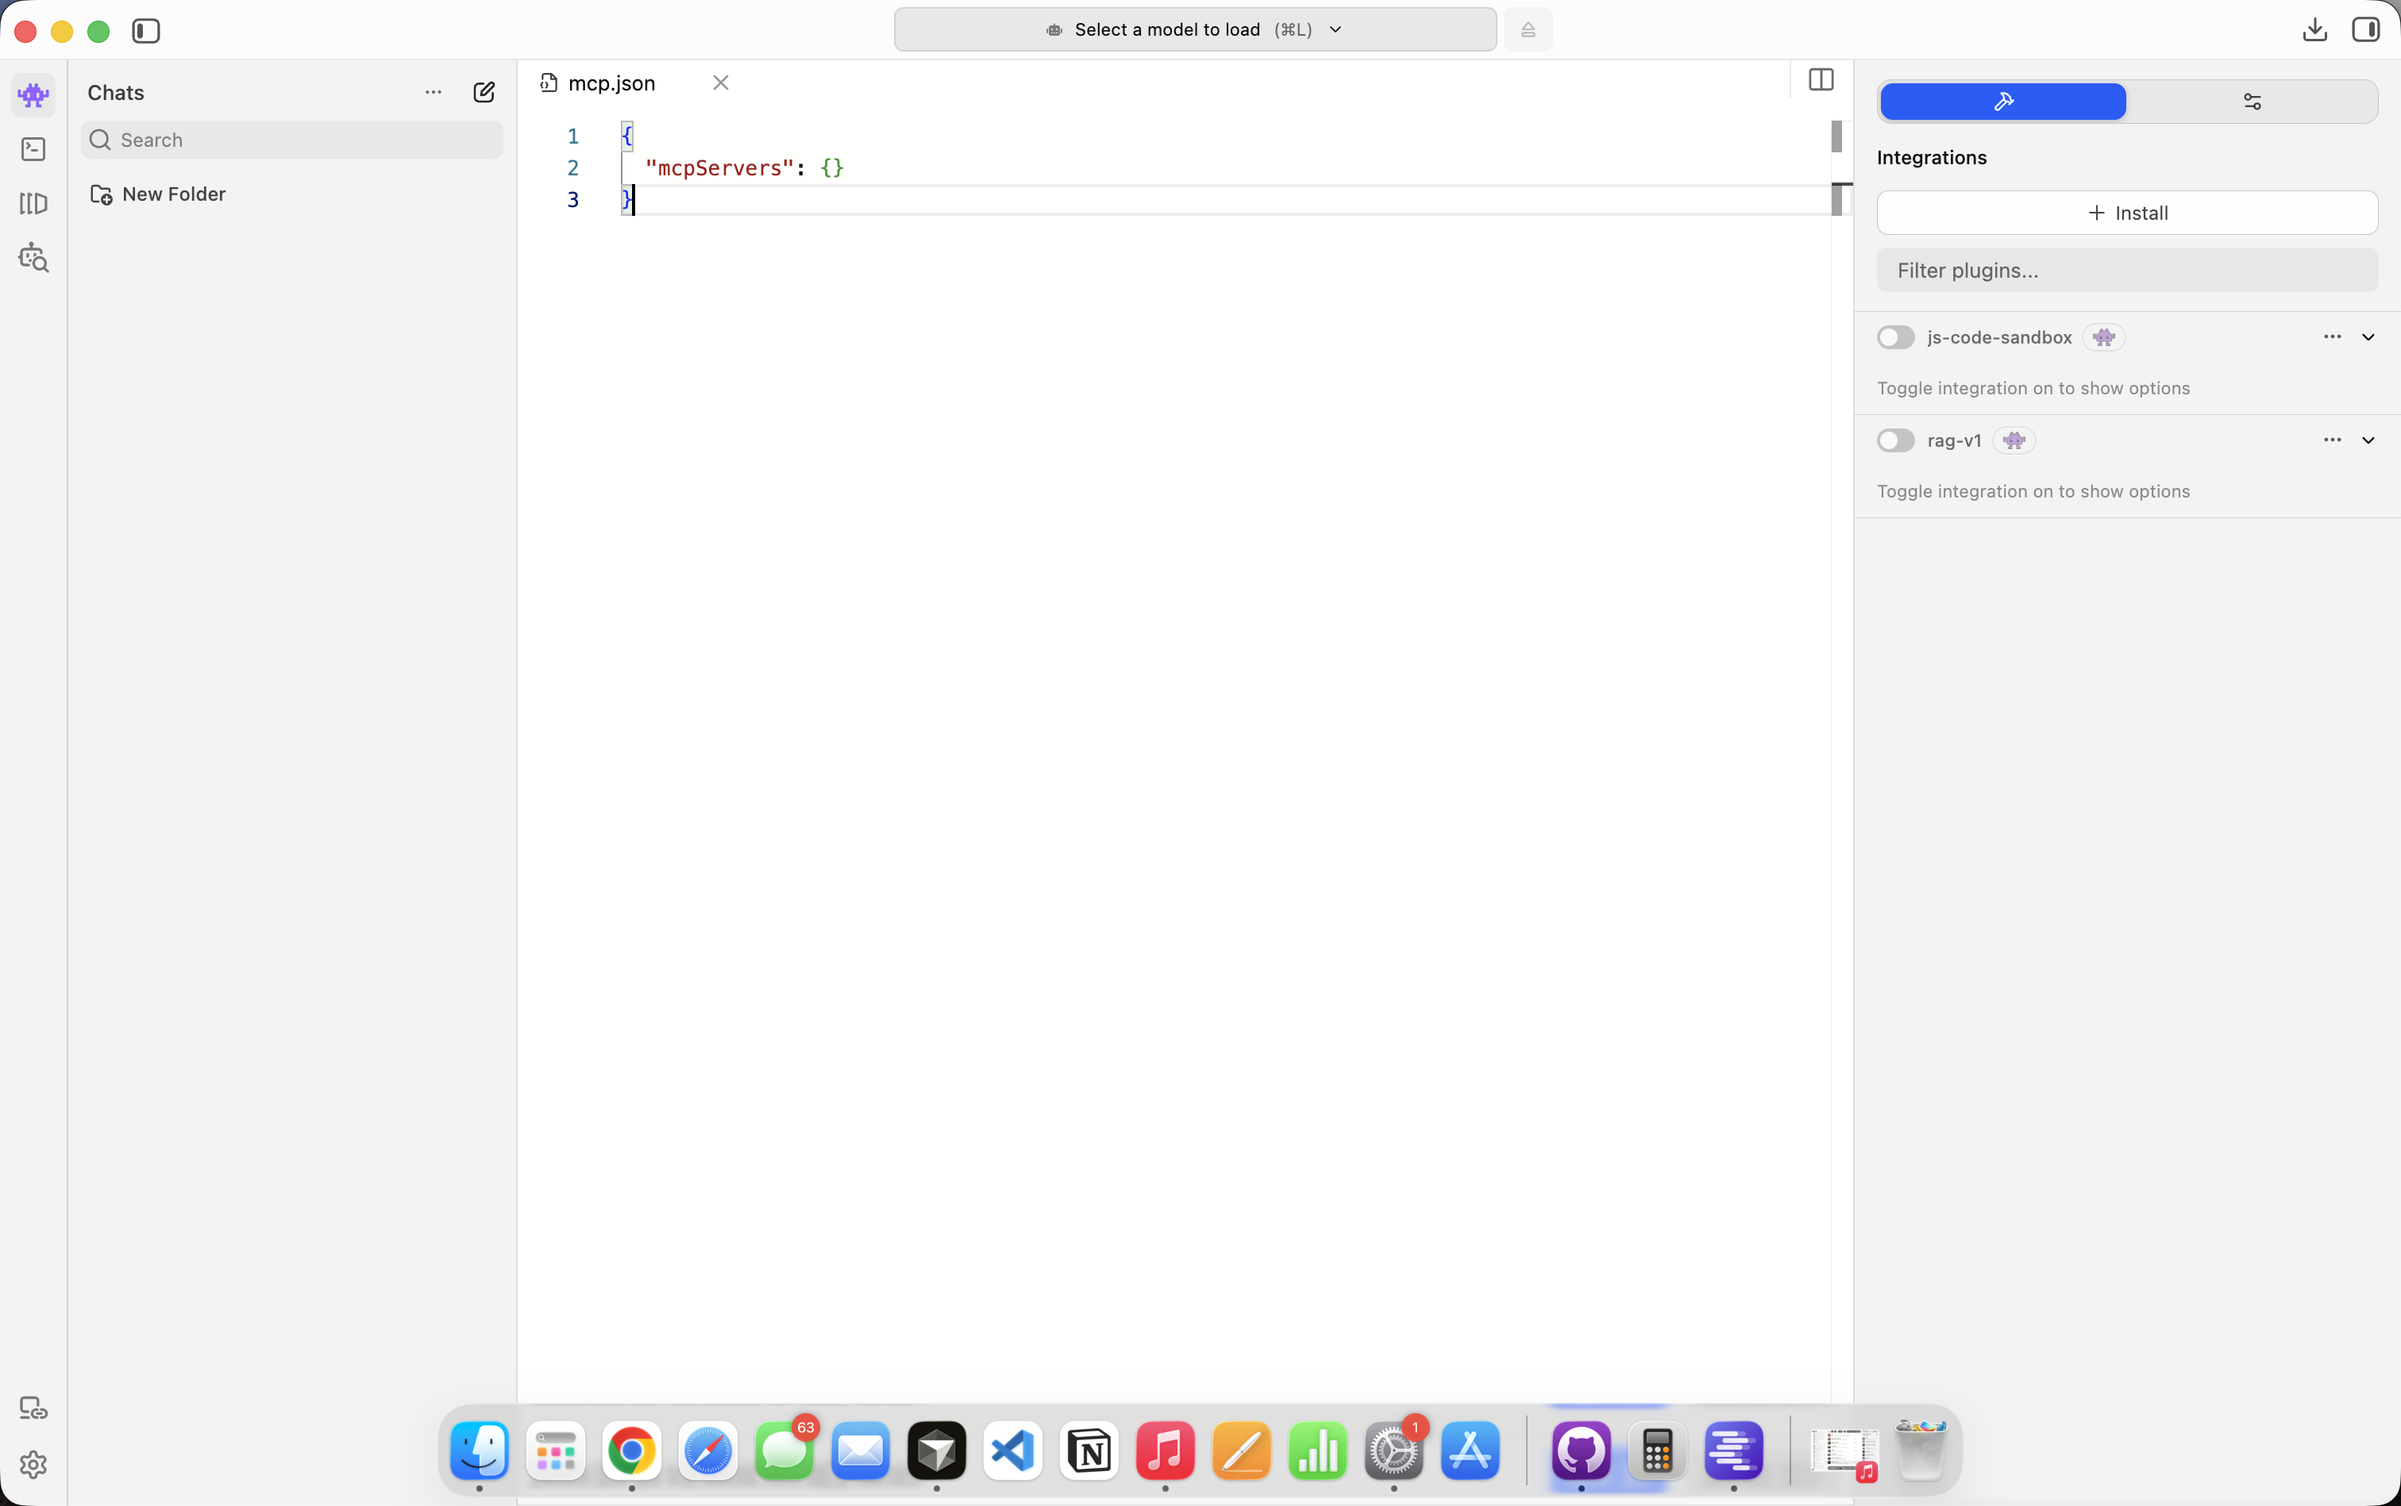
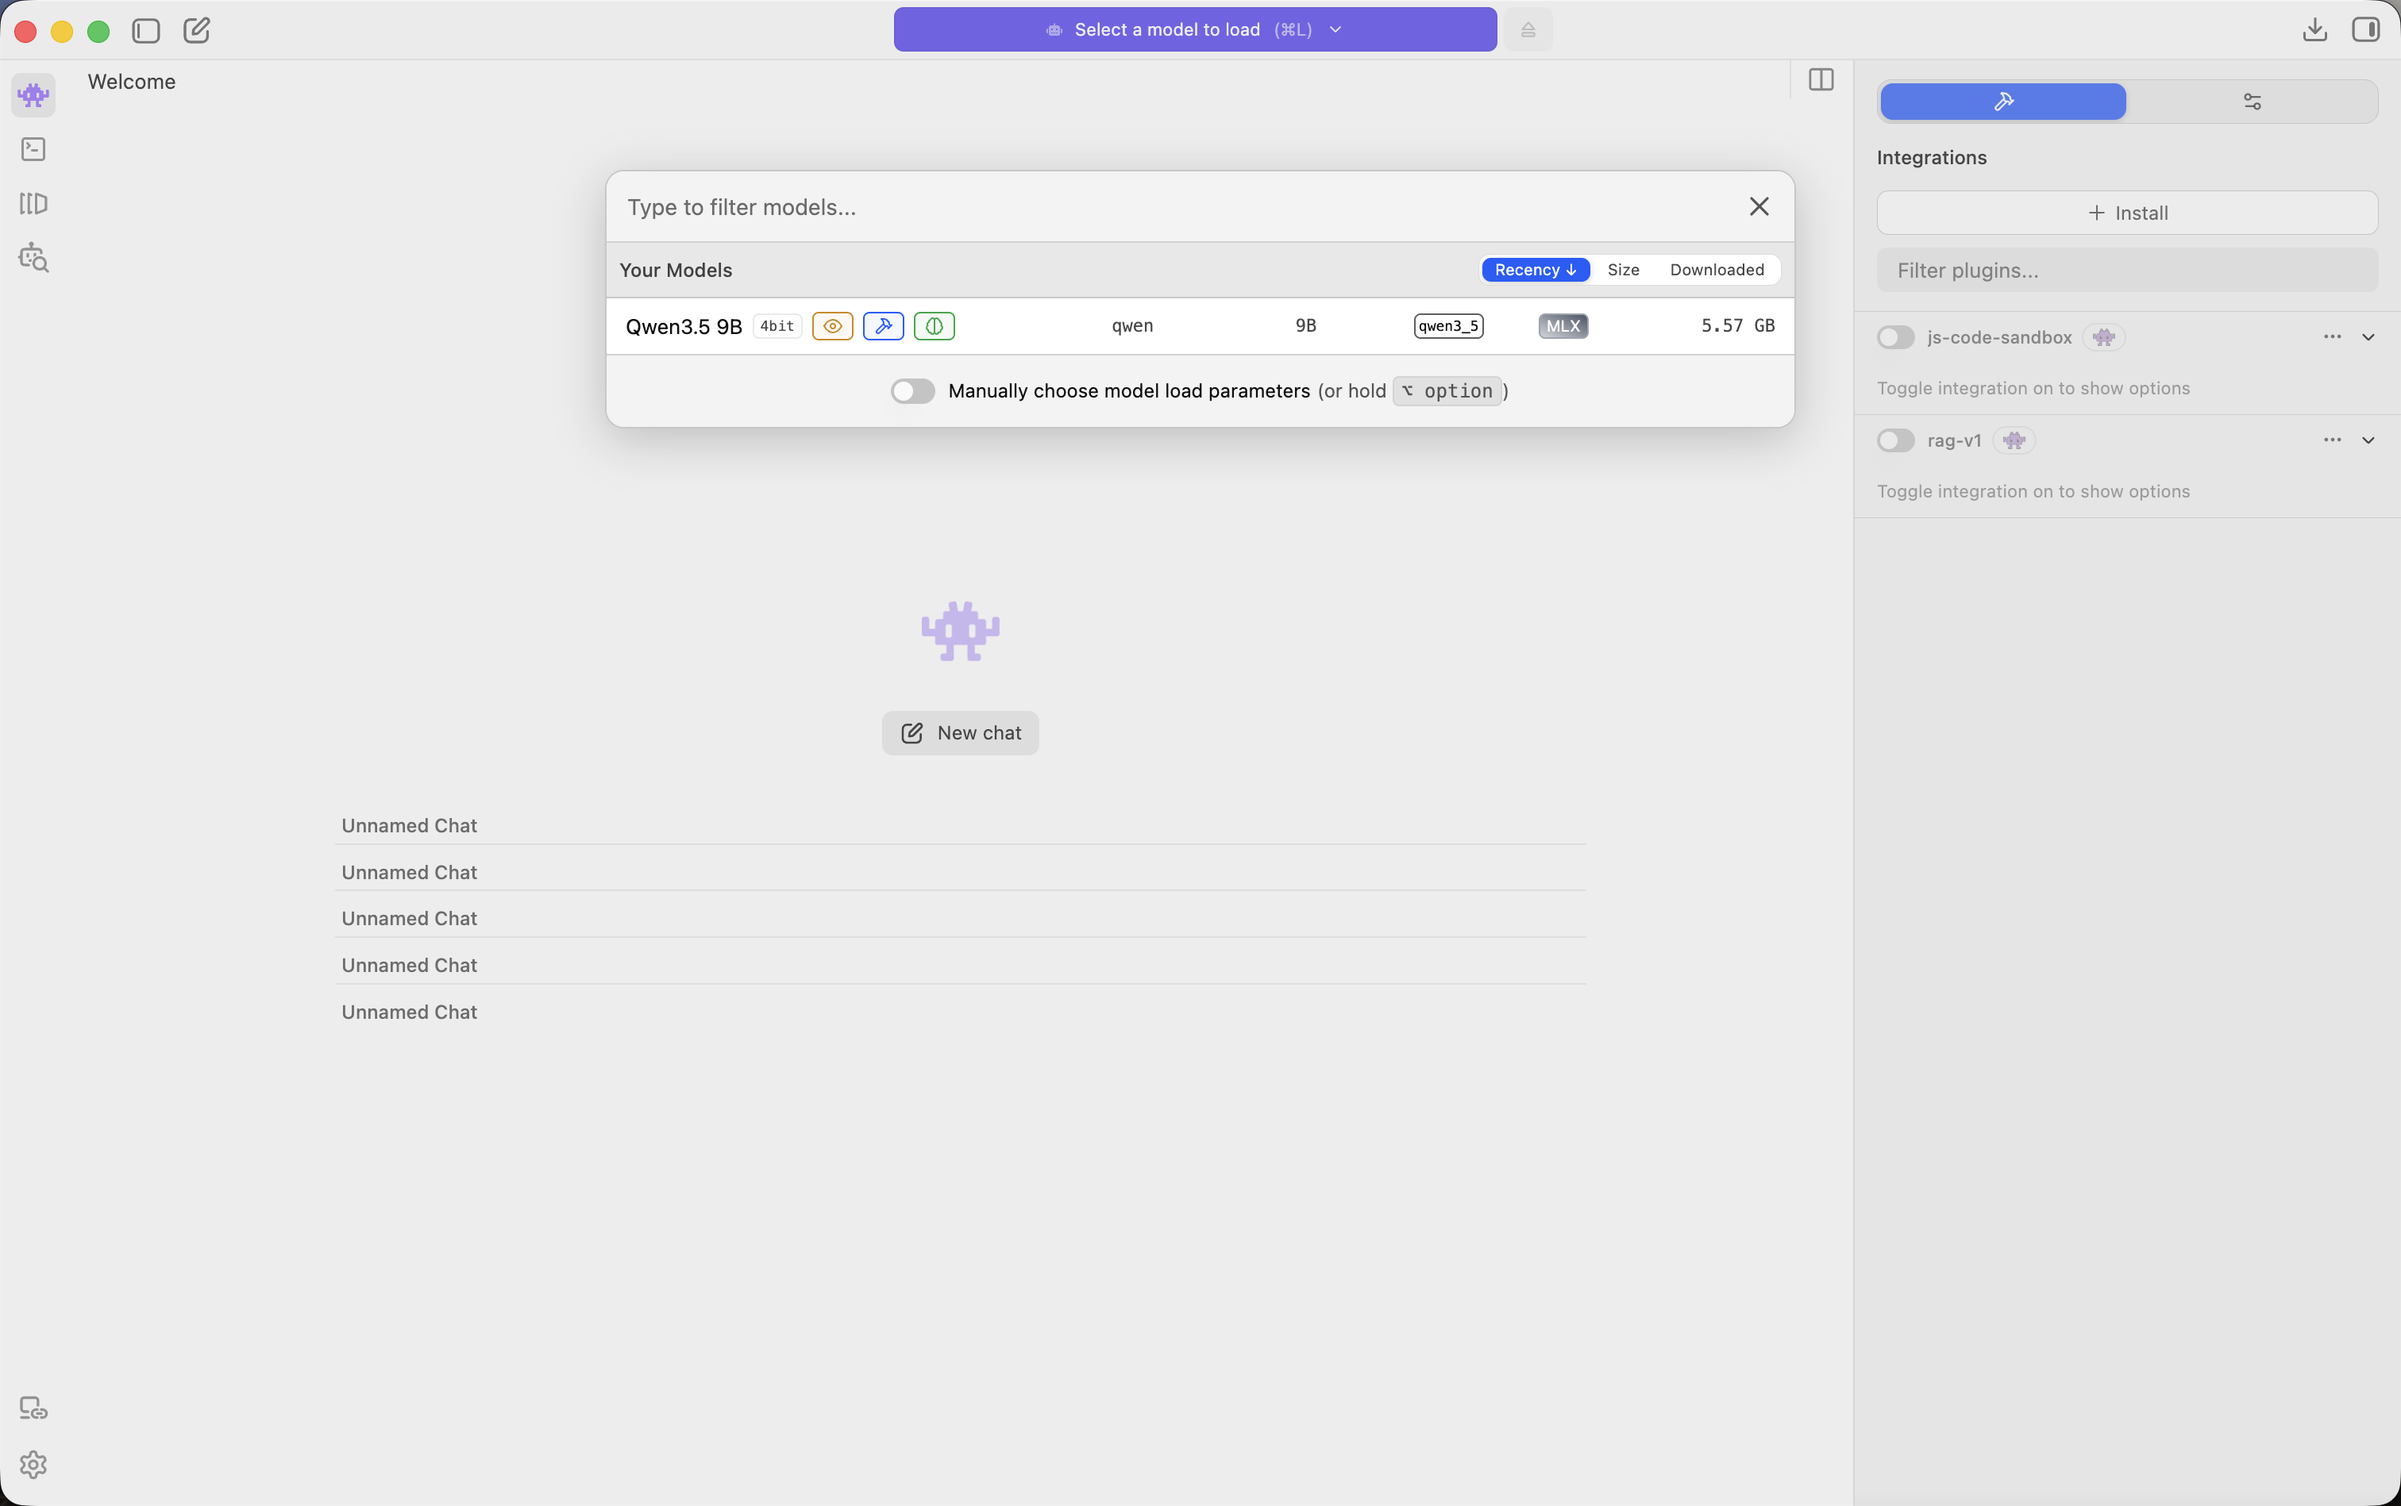
Polish LM Studio setup guide and model-load screenshot.
Shorten the writeup and place the model picker screenshot on the load step.

diff --git a/LMStudo_Setup/setup.md b/LMStudo_Setup/setup.md
@@ -1,79 +1,71 @@
 # Setup LM Studio
 
-We will use **LM Studio** to download and run language models locally on your Mac. It is not installed by default, so you will get it from the official site.
-
-> **LM Studio vs Bionic:** The homepage at [lmstudio.ai](https://lmstudio.ai/) currently promotes **Bionic**, a newer, separate app for agent-style work (projects, coding/research, optional cloud models). Its interface is different from what this guide shows.
->
-> For this course, use **LM Studio** (the 0.4.x app), not Bionic. Download it from [lmstudio.ai/download](https://lmstudio.ai/download). LM Studio is the right tool for browsing, downloading, loading, and chatting with local models.
+> **Note:** Do **not** install **Bionic** from the [lmstudio.ai](https://lmstudio.ai/) homepage — that is a different app. For this course, use **LM Studio** from [lmstudio.ai/download](https://lmstudio.ai/download).
 
 ## Download and Install
 
-1. Open [lmstudio.ai/download](https://lmstudio.ai/download) in your browser.
-2. Click **Download** for your operating system (for example, **Download for Mac**).
-3. Open the downloaded installer / app and launch **LM Studio**.
+1. Open [lmstudio.ai/download](https://lmstudio.ai/download).
+2. Click **Download** for your OS (e.g. **Download for Mac**).
+3. Open the installer / app and launch **LM Studio**.
 
 ## First Launch Setup
 
-The first time you open LM Studio, you will see a short set of setup screens.
+The first time you open LM Studio, you will see a few setup screens.
 
 ### Your first model
 
-One screen offers a default model to download. Recently this has been **`gemma-4-e4b`** (about **6.86 GB**).
+One screen offers a default model — recently **`gemma-4-e4b`** (~**6.86 GB**). You do **not** need it for this course.
 
 ![Your first model](firstmodel.png)
 
-You do **not** need this model for the course. Choose one of the following:
+- **Skip for now** (or **Skip →**) to continue without it, or
+- **Download gemma-4-e4b** if you want it later (it appears under **My Models**).
 
-- Click **Skip for now** (or **Skip →** in the top right) to continue without downloading it.
-- Click **Download gemma-4-e4b** if you want an extra model available later. It will appear under **My Models** along with anything else you install.
-
-If you start the download, you can continue setup while it finishes in the background:
+If you download it, you can keep going while it finishes in the background:
 
 ![Downloading first model](downloadingmodel.png)
 
-Either choice is fine. Later we will download the course model, **Qwen3.5 9B**.
+Later we will download the course model, **Qwen3.5 9B**.
 
 ### Advanced settings
 
-You may also see an **Advanced settings** screen:
+You may see an **Advanced settings** screen:
 
 ![Advanced settings](advancedsettings.png)
 
-Recommended defaults for this course:
+For this course:
 
-- Leave **Developer Mode** **off** (keeps the UI simpler).
-- **Start local LLM service on login** can stay **on** (convenient) or be turned **off** (uses fewer background resources when you are not using LM Studio).
+- Leave **Developer Mode** **off**.
+- **Start local LLM service on login** can stay **on**, or turn it **off** to save background resources.
 
 Then click **Continue to LM Studio →**.
 
 ### Promo screens
 
-After setup, LM Studio may show feature announcements (for example, **LM Link**). These are optional. Check **Do not show this again**, click **Next**, or close the dialog with **X**.
+You may see feature promos (e.g. **LM Link**). These are optional — check **Do not show this again**, click **Next**, or close with **X**.
 
 ![Promo screen](promoscreen.png)
 
 ## Download a Model
 
-1. Open **Discover → Model Search** from the left sidebar, or press `⌘⇧M`.
+1. Open **Discover → Model Search** (or press `⌘⇧M`).
 
 ![Model Search](modelsearch.png)
 
-2. In the search bar, type `Qwen3.5 9B`.
+2. Search for `Qwen3.5 9B`.
 3. Select the official **Qwen3.5 9B** result.
-4. Click **Download** (about **5.98 GB**). This usually takes about **5 minutes**, depending on your network — wait until it finishes.
+4. Click **Download** (~5.98 GB; usually about **5 minutes**).
 
 ![Model Download](modeldownload.png)
 
-If the model is already on your machine, you may see **Use in New Chat** instead of **Download**.
+If it is already downloaded, you may see **Use in New Chat** instead.
 
 ## Load the Model and Chat
 
-After the download is complete:
+1. Click the **Chat** icon (or press `⌘1`).
+2. Open **Select a model to load** at the top (or press `⌘L`).
 
-1. Click the **Chat** icon on the left sidebar, or press `⌘1`.
+![Select a model to load](chat.png)
 
-![Chat](chat.png)
-
-2. At the top center of the screen, open the menu that says **Select a model to load**, or press `⌘L`.
-3. Choose **`Qwen3.5 9B`**. Wait a moment for it to load into memory.
-4. Type a prompt in the chat box at the bottom and press **Enter** to generate text locally.
+3. Choose **`Qwen3.5 9B`** and wait for it to load.
+4. Type a prompt and press **Enter**.
